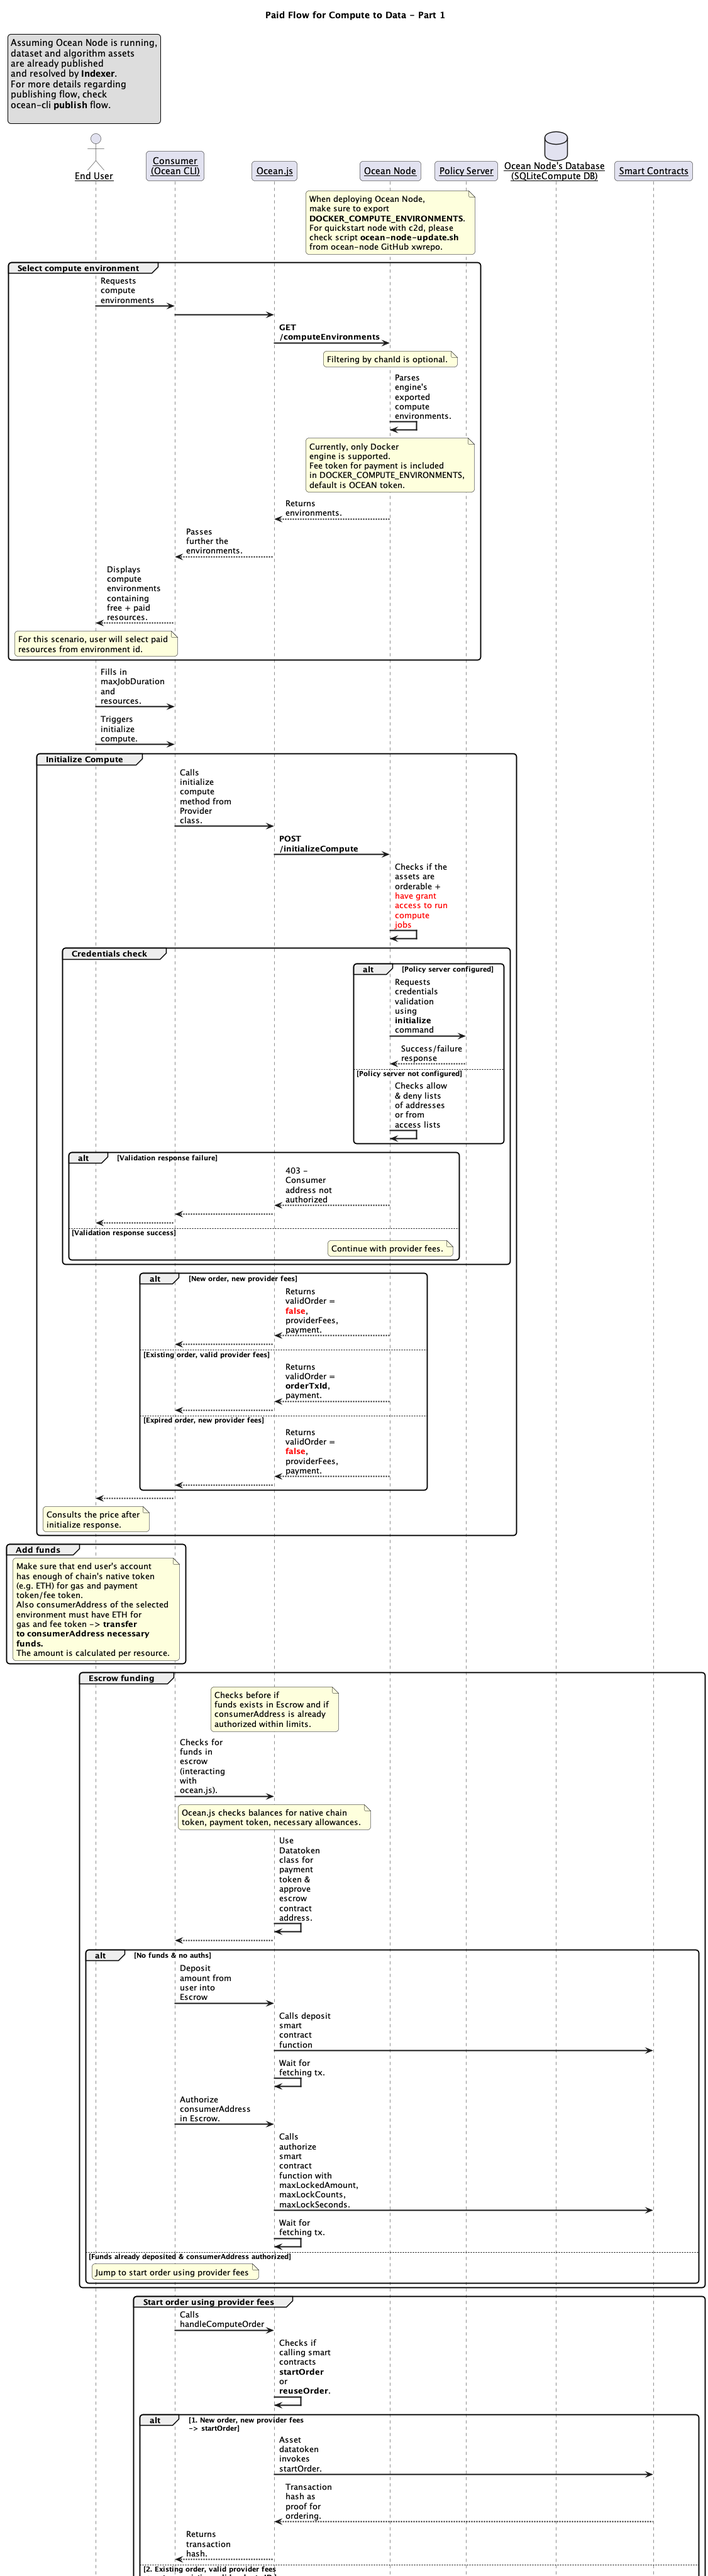
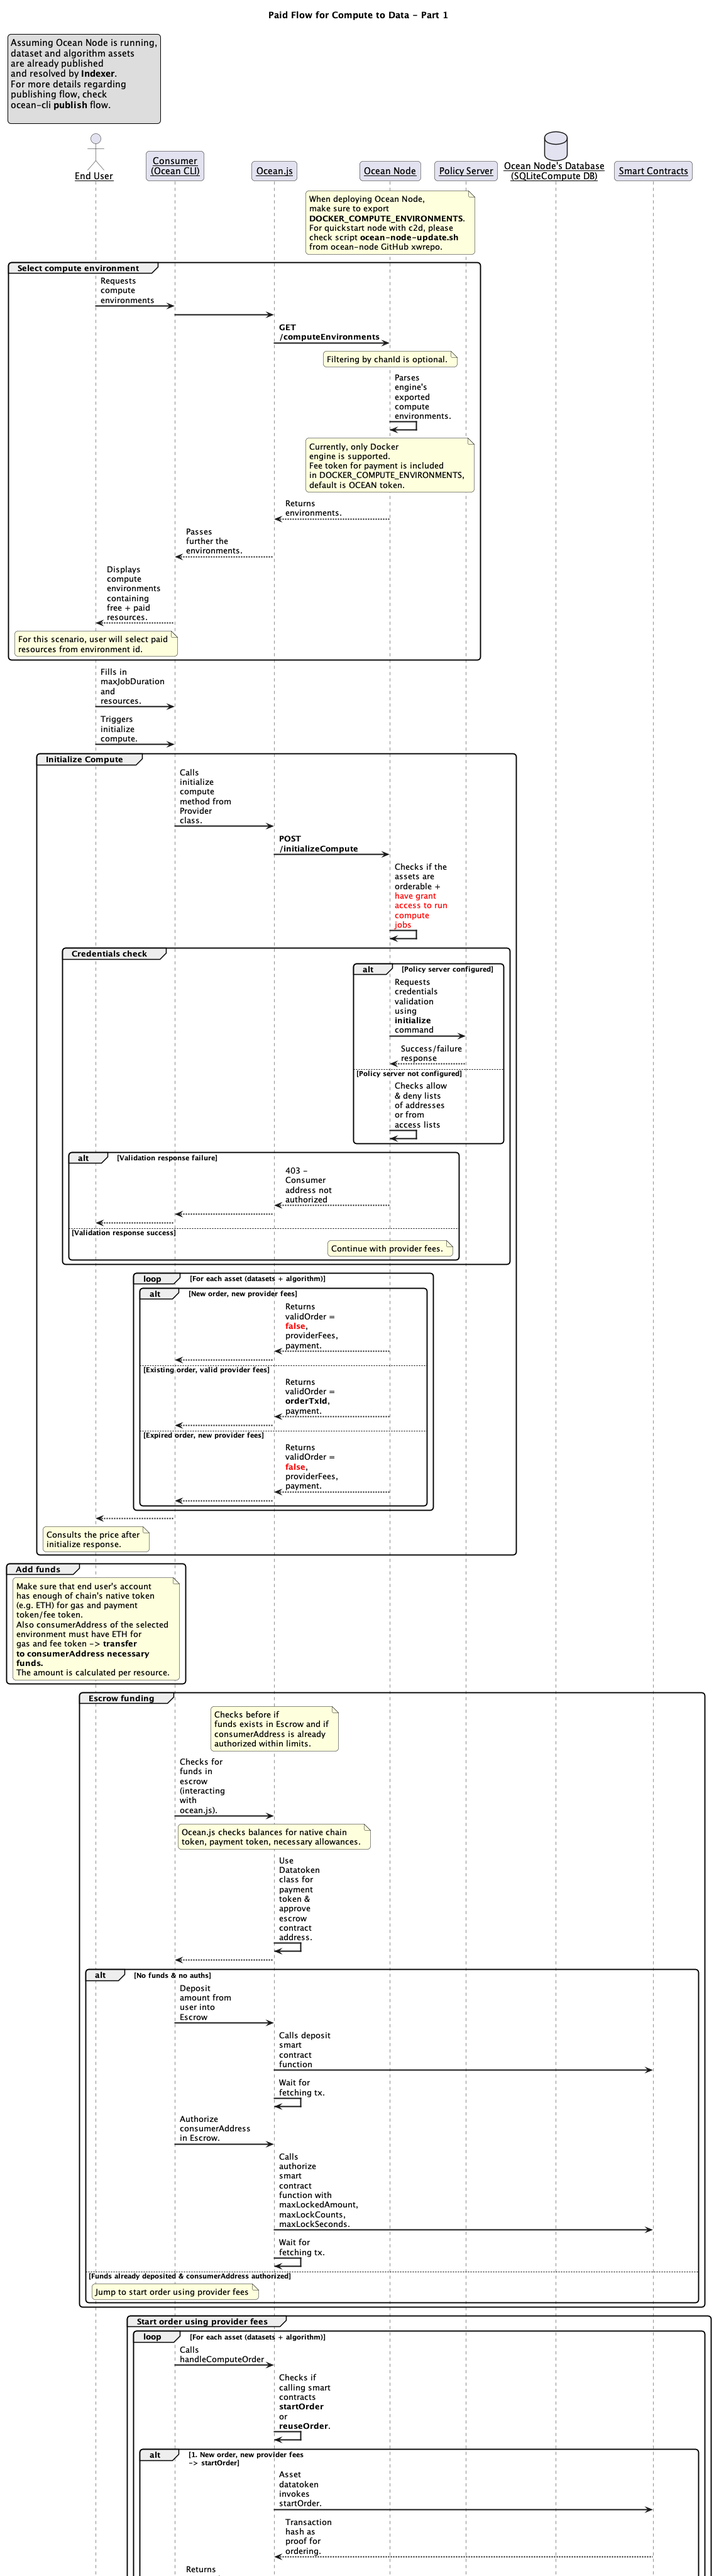
Finished paid compute flow. Added introduction for escrow contract.

diff --git a/developers/compute-to-data-v2.0/paid-compute-to-data-flow.md b/developers/compute-to-data-v2.0/paid-compute-to-data-flow.md
@@ -28,27 +28,98 @@ resources and resources `min`, `max`, `inUse` for **paid** and **free** compute.
 In this scenario, paid resources (the resources which are **not** marked with `free`) will be
 selected by the user within available limits `min` and `max`.
 
-The consumer tool makes a request to the node **GET /computeEnvironments** and the node returns back to the consumer tool the environments exported at the node startup from `DOCKER_COMPUTE_ENVIRONMENTS` variable. Consumer tool dispalys then to the end user the list of environemnts.
+The consumer tool makes a request to the node **GET /computeEnvironments** and the node returns to the consumer tool the environments exported at the node startup from `DOCKER_COMPUTE_ENVIRONMENTS` variable. Consumer tool dispalys then to the end user the list of environemnts.
 
 The end user selects the free resources and fills in the consumer tool together with job duration that the user considers is needed
 for the algorithm execution.
 
 ### Initialize compute
 
+The end user calls method `initializeCompute` from the consumer tool for provider fees generation, needed for assets ordering and payment details according to **maximum job duration** input from the end user and to the **prefered resources**. 
 
-### Escrow Payment
+The consumer tool calls ocean.js dedicated method for initialize, followed by
+request to **POST /initializeCompute** from Node to return the provider fees and payment details.
+
+#### Environment check
+Ocean Node verifies if the passed environment id is valid from ocean.js, in case of failure, node returns to ocean.js the following error: __500, 'Invalid C2D Environment'__ propagated to consumer tool and displayed to end user.
+
+#### Resources check
+Ocean Node does not allow input resources to be outside limits
+`min` and `max`, therefore it will throw and error with status code **500** and a message with `Not enough resources`.
+
+#### Token payment check for environment
+Ocean Node performs a validation if the token passed from ocean.js is available for the selected environment. In case of failure, node returns to ocean.js the following error: __500, 'This compute env does not accept payments on chain'__ propagated to consumer tool and displayed to end user.
+
+#### Escrow support for chain ID check
+Ocean Node validates if for the specified chain ID, payments in escrow are supported. In case of failure, node returns to ocean.js the following error: __500, 'Cannot handle payments on chainId'__ propagated to consumer tool and displayed to end user.
+
+#### Credentials check
+If the node has configured `POLICY_SERVER_URL` and ddo contains credentials, the credentials check is performed in `Policy Server`, otherwise node performs credentials check for consumer address. Credentials checks are performed once at the DDO level, but also for services credentials within the DDO object.
+
+In case of failure, node returns to ocean.js __403, 'Error: Access to asset ${ddo.id} was denied'__ which will be passed back to the end user.
+
+
+#### Provider fees check
+For each **orderable asset** (datasets and algorithm), Ocean Node validates provider fees availability according to these 3 scenarios:
+
+**1. New order, new provider fees**
+Ocean Node returns to ocean.js `validOrder` false, because there was not a valid order before executed and new provider fees needs to be returned further until end user, including payment details with calculated cost per specified resources and job duration.
+
+**2. Existing order, valid provider fees**
+Ocean Node returns to ocean.js `validOrder` the existing order transaction ID, because the order has still valid provider fees. Only escrow payment is returned to cocean.js and further to consumer tool and end user.
+
+**3. Expired order, new provider fees**
+Ocean Node returns to ocean.js `validOrder` false, because existing provider fees have expired and new provider fees needs to be returned further until end user, including payment details.
+
+After these checks are performed and are successful, provider fees and escrow payment object are returned to ocean.js, then consumer tool and displayed to the end user to consult regarding the payment amount for compute power usage.
+
+### Funds check and Escrow Payment
+Consumer tool calls a method available in ocean.js, `verifyFundsForEscrowPayment`, for checking balances and allowances of token required for Escrow payment and native chain token for gas fees for consumer address of the environment and for end user's address.
+
+Moreover, the function `verifyFundsForEscrowPayment` from coean.js calls Escrow smart contract to deposit the amount retrieved from initialize response into Escrow contract and to authorize the consumer address of the environment if it wasn't already performed before.
+
+
+### Ordering assets
+Consumer tool calls ocean.js method `handleComputeOrder` for each asset involved in compute job (datasets and algorithm).
+This method trigger Datatoken smart contract internally for `startOrder` or `reuseOrder` according to availability of provider fees returned from initialize response.
+
+**1. New order, new provider fees-> startOrder**
+`startOrder` transaction generates the order transaction ID used further when starting compute as proof of ordering the asset.
+
+**2. Existing order, valid provider fees-> returns existing valid order tx ID**
+No smart contract is needed, existing valid order transaction id is returned.
+
+**3. Expired order, new provider fees-> reuseOrder**
+`reuseOrder` transaction generates new order transaction ID used further when starting compute as proof of ordering the asset.
 
 ### Start compute
 #### Nonce & signature check
 Consumer tool calls through ocean.js `startCompute` which requests in Ocean Node **POST /compute**. Within Ocean Node,
-nonce and signature provided by ocean.js is checked. In case of invalid nonce or signature, node returns __500, 'Invalid nonce or signature, unable to proceed.'__
+nonce and signature provided by ocean.js is checked. In case of invalid nonce or signature, node returns to ocean.js  __500, 'Invalid nonce or signature, unable to proceed.'__ which will be passed back to the end user.
+
 
 #### Credentials check
-If the node has configured `POLICY_SERVER_URL` and ddo contains credentials, the credentials check is performed in `Policy Server`, otherwise node performs credentials check for consumer address. In case of failure, node returns back to the consumer tool __403, 'Error: Access to asset ${ddo.id} was denied'__
+If the node has configured `POLICY_SERVER_URL` and ddo contains credentials, the credentials check is performed in `Policy Server`, otherwise node performs credentials check for consumer address. In case of failure, node returns to ocean.js __403, 'Error: Access to asset ${ddo.id} was denied'__ which will be passed back to the end user.
+
+
+#### Validation of the algorithm for dataset
+Ocean Node checks if the algorithm has defined `publisherTrustedAlgorithms` or `publisherTrustedAlgorithmPublishers` lists within the `compute` service of the dataset and there are 3 conditions:
+- if these are empty, then the validation is **successful**.
+- if `publisherTrustedAlgorithms` contains the algorithm DID, then the validation is **successful**, otherwise validation is **false**.
+- if `publisherTrustedAlgorithmPublishers` contains the algorithm `nftAddress`, then the validation is **successful**, otherwise validation is **false**.
+
+#### Valid order check for asset
+Ocean Node checks the order transaction ID from each asset as proof or ordering the asset. In case of failure, node returns to ocean.js __500, 'TxId Service ${elem.transferTxId} is not valid for DDO'__ which will be passed back to the end user.
 
 After these checks are performed and are successful, job id is generated and C2D engine is called for the actual algorithm execution.
 
-#### C2D Docker Engine
+#### Create lock in Escrow
+With the deposited funds, for each startCompute requests, Ocean Node calls Escrow smart contracts to create a lock, to apply the calculated cost per resources and per `maxJobDuration` prefered by end user, for that particular compute job. `createLock` generates a transactionID which is represented as **agreement ID**, used as proof for paying the compute power usage.
+
+In case of failure, node returns to ocean.js smart contract error with status code `400`.
+
+
+#### C2D Engine
 
 The only supported engine for start compute (free and paid) is the one for Docker.
 The following steps executed by C2D Docker engine class are:
@@ -69,11 +140,11 @@ Whenever a job has started, an internal loop which monitors all the new jobs is 
 `JobStarted` -> `PullImage` or `PullImageFailed` -> `ConfiguringVolumes` or `VolumeCreationFailed` -> `Provisioning` or `ContainerCreationFailed` -> `RunningAlgorithm` or `AlgorithmFailed` -> `PublishingResults` or `ResultsUploadFailed`
 
 **Sequence of steps for internal loop:**
-1. Pulling docker image for the algorithm - if failure -> throws error and returns back to the consumer tool and updates job status `SQLite` database in `PullImageFailed`.
-2. Configuring volumes for the dedicated algorithm container - if failure -> throws error and returns back to the consumer tool and updates job status `SQLite` database in `VolumeCreationFailed`.
-3. Create Docker container for the algorithm - if failure -> throws error and returns back to the consumer tool and updates job status `SQLite` database in `ContainerCreationFailed`.
-4. Triggers algorithm execution on dedicated container - if failure from the algorithm -> throws error and returns back to the consumer tool and updates job status `SQLite` database in `AlgorithmFailed`.
-5. Publish results in `/data/outputs` even if the algorithm execution was successful or not - if failure -> throws error and returns back to the consumer tool and updates job status `SQLite` database in `ResultsUploadFailed`.
+1. Pulling docker image for the algorithm - if failure -> throws error and returns to the consumer tool and updates job status `SQLite` database in `PullImageFailed`.
+2. Configuring volumes for the dedicated algorithm container - if failure -> throws error and returns to the consumer tool and updates job status `SQLite` database in `VolumeCreationFailed`.
+3. Create Docker container for the algorithm - if failure -> throws error and returns to the consumer tool and updates job status `SQLite` database in `ContainerCreationFailed`.
+4. Triggers algorithm execution on dedicated container - if failure from the algorithm -> throws error and returns to the consumer tool and updates job status `SQLite` database in `AlgorithmFailed`.
+5. Publish results in `/data/outputs` even if the algorithm execution was successful or not - if failure -> throws error and returns to the consumer tool and updates job status `SQLite` database in `ResultsUploadFailed`.
 If publishing results step was executed successfully, the container and volumes will be deleted together with the folders
 for datasets, algorithms and results.
 For paid compute jobs, before cleanup the job, all the expired locks will be cancelled calling **Escrow Smart Contract**.
@@ -92,6 +163,6 @@ If compute job status is `PublishingResults`, consumer tool will
 call ocean.js `computeResult` method which requests from node
 on endpoint `GET /computeResult`. Node returns to ocean.js the results content and ocean.js generates a downloadable URL to pass further to the consumer tools.
 
-In case of request failure from node side, the error is retruned back to the consumer tool and displayed to the end user.
+In case of request failure from node side, the error is returned to the consumer tool and displayed to the end user.
 Consumer tools received the downloadable URL and will fetch the BLOB content from it and store on end user's specified results folder path.
 

diff --git a/developers/compute-to-data-v2.0/free-compute-to-data-flow.md b/developers/compute-to-data-v2.0/free-compute-to-data-flow.md
@@ -34,7 +34,7 @@ resources and resources `min`, `max`, `inUse` for **paid** and **free** compute.
 In this scenario, `free` resources will be
 selected by the user within available limits `min` and `max`.
 
-The consumer tool makes a request to the node **GET /computeEnvironments** and the node returns back to the consumer tool the environments exported at the node startup from `DOCKER_COMPUTE_ENVIRONMENTS` variable. Consumer tool dispalys then to the end user the list of environemnts.
+The consumer tool makes a request to the node **GET /computeEnvironments** and the node returns to the consumer tool the environments exported at the node startup from `DOCKER_COMPUTE_ENVIRONMENTS` variable. Consumer tool dispalys then to the end user the list of environemnts.
 
 The end user selects the free resources and fills in the consumer tool together with job duration that the user considers is needed
 for the algorithm execution.
@@ -45,11 +45,15 @@ Consumer tool calls through ocean.js `freeStartCompute` which requests in Ocean 
 nonce and signature provided by ocean.js is checked. In case of invalid nonce or signature, node returns __500, 'Invalid nonce or signature, unable to proceed.'__
 
 #### Credentials check
-If the node has configured `POLICY_SERVER_URL` and ddo contains credentials, the credentials check is performed in `Policy Server`, otherwise node performs credentials check for consumer address. In case of failure, node returns back to the consumer tool __403, 'Error: Access to asset ${ddo.id} was denied'__
+If the node has configured `POLICY_SERVER_URL` and ddo contains credentials, the credentials check is performed in `Policy Server`, otherwise node performs credentials check for consumer address. 
+
+Credentials checks are performed once at the DDO level, but also for services credentials within the DDO object.
+
+In case of failure, node returns to ocean.js __403, 'Error: Access to asset ${ddo.id} was denied'__ which will be passed back to the end user.
 
 After these checks are performed and are successful, job id is generated and C2D engine is called for the actual algorithm execution.
 
-#### C2D Docker Engine
+#### C2D Engine
 
 The only supported engine for start compute (free and paid) is the one for Docker.
 The following steps executed by C2D Docker engine class are:
@@ -70,11 +74,11 @@ Whenever a job has started, an internal loop which monitors all the new jobs is 
 `JobStarted` -> `PullImage` or `PullImageFailed` -> `ConfiguringVolumes` or `VolumeCreationFailed` -> `Provisioning` or `ContainerCreationFailed` -> `RunningAlgorithm` or `AlgorithmFailed` -> `PublishingResults` or `ResultsUploadFailed`
 
 **Sequence of steps for internal loop:**
-1. Pulling docker image for the algorithm - if failure -> throws error and returns back to the consumer tool and updates job status `SQLite` database in `PullImageFailed`.
-2. Configuring volumes for the dedicated algorithm container - if failure -> throws error and returns back to the consumer tool and updates job status `SQLite` database in `VolumeCreationFailed`.
-3. Create Docker container for the algorithm - if failure -> throws error and returns back to the consumer tool and updates job status `SQLite` database in `ContainerCreationFailed`.
-4. Triggers algorithm execution on dedicated container - if failure from the algorithm -> throws error and returns back to the consumer tool and updates job status `SQLite` database in `AlgorithmFailed`.
-5. Publish results in `/data/outputs` even if the algorithm execution was successful or not - if failure -> throws error and returns back to the consumer tool and updates job status `SQLite` database in `ResultsUploadFailed`.
+1. Pulling docker image for the algorithm - if failure -> throws error and returns to the consumer tool and updates job status `SQLite` database in `PullImageFailed`.
+2. Configuring volumes for the dedicated algorithm container - if failure -> throws error and returns to the consumer tool and updates job status `SQLite` database in `VolumeCreationFailed`.
+3. Create Docker container for the algorithm - if failure -> throws error and returns to the consumer tool and updates job status `SQLite` database in `ContainerCreationFailed`.
+4. Triggers algorithm execution on dedicated container - if failure from the algorithm -> throws error and returns to the consumer tool and updates job status `SQLite` database in `AlgorithmFailed`.
+5. Publish results in `/data/outputs` even if the algorithm execution was successful or not - if failure -> throws error and returns to the consumer tool and updates job status `SQLite` database in `ResultsUploadFailed`.
 If publishing results step was executed successfully, the container and volumes will be deleted together with the folders
 for datasets, algorithms and results.
 
@@ -92,6 +96,6 @@ If compute job status is `PublishingResults`, consumer tool will
 call ocean.js `computeResult` method which requests from node
 on endpoint `GET /computeResult`. Node returns to ocean.js the results content and ocean.js generates a downloadable URL to pass further to the consumer tools.
 
-In case of request failure from node side, the error is retruned back to the consumer tool and displayed to the end user.
+In case of request failure from node side, the error is returned to the consumer tool and displayed to the end user.
 Consumer tools received the downloadable URL and will fetch the BLOB content from it and store on end user's specified results folder path.
 

diff --git a/developers/vscode/README.md b/developers/vscode/README.md
@@ -41,7 +41,7 @@ VS Code 1.96.0 or higher
 - Dataset: Optional JSON file for input data
 - Results Folder: Where computation results will be saved
 
-<figure><img src=".gitbook/assets/vscode/setup-screenshot.png" alt="Ocean Protocol VSCode Extension Optional Setup"><figcaption>Optional Setup Configuration</figcaption></figure>
+<figure><img src="../../.gitbook/assets/vscode/setup.png" alt="Ocean Protocol VSCode Extension Optional Setup"><figcaption>Optional Setup Configuration</figcaption></figure>
 
 ## Contributing
 

diff --git a/developers/contracts/escrow.md b/developers/contracts/escrow.md
@@ -1,0 +1,5 @@
+# C2D Payment - Escrow
+
+## What is the purpose of Escrow?
+Escrow smart contract facilitates the payment for new version of paid compute by locking the amount available in the contract for algorithm execution at each compute job creation.
+
